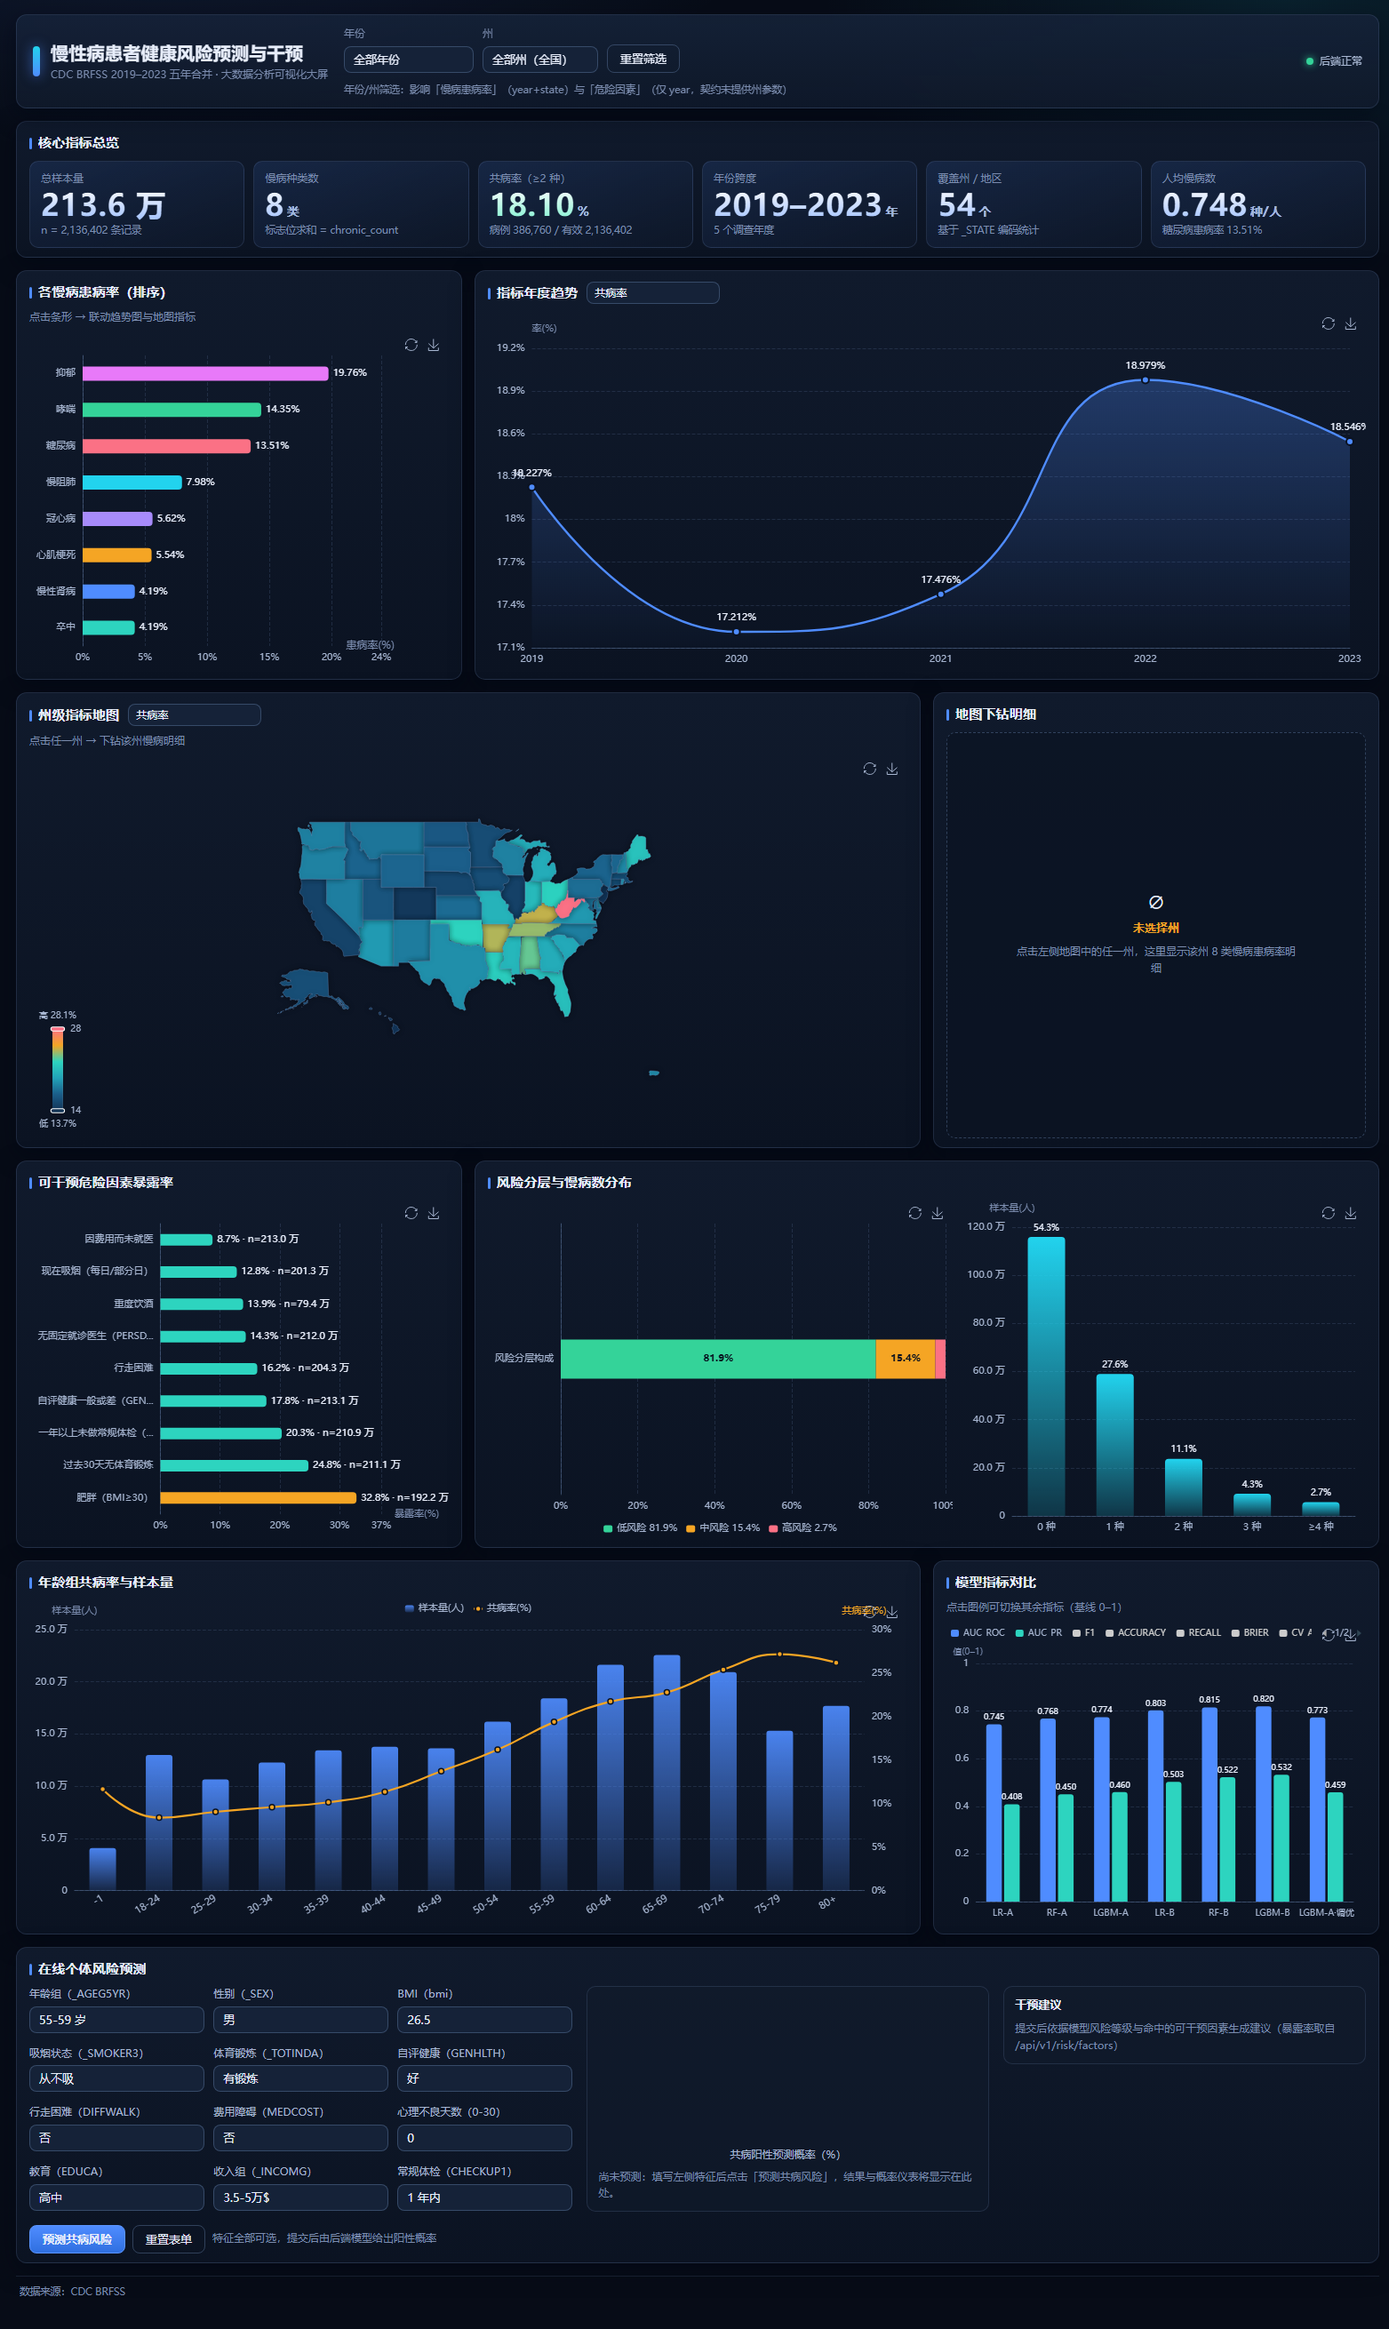
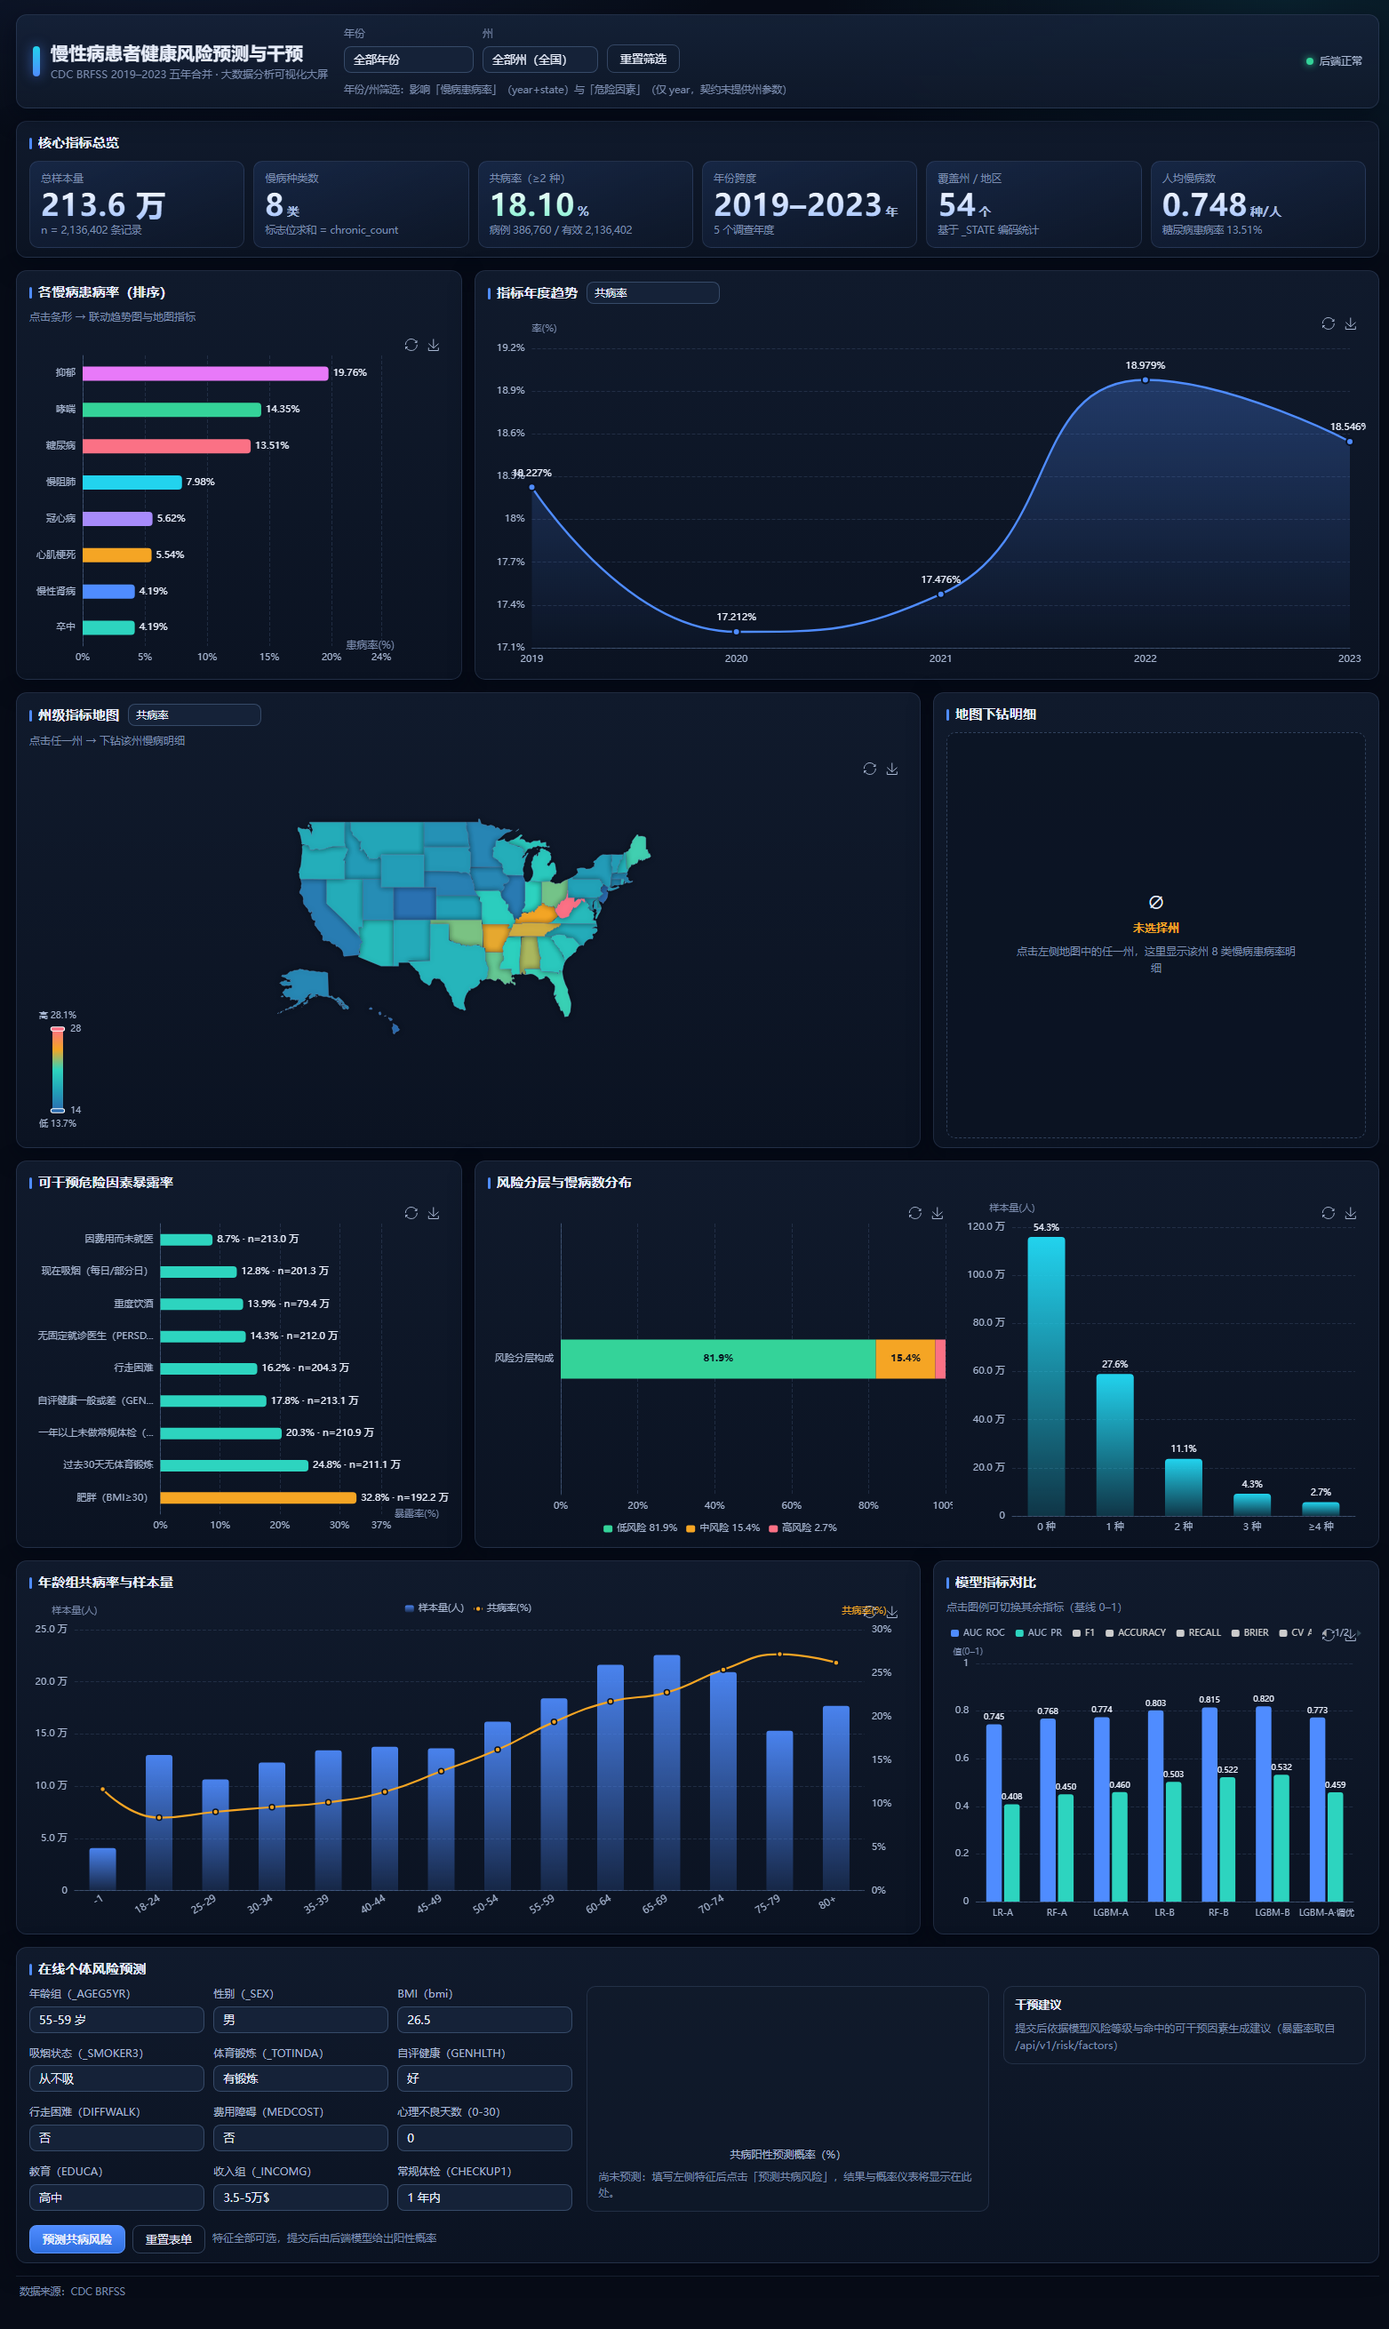
style(web): 统一图表调色板与网格线，修正地图冷端并隐藏波多黎各方块
- 8 个 ECharts 实例改注册主题 brfss-dark，色板换成设计令牌（去 ECharts 出厂默认色）
- 网格线统一为类目轴不画线（仅保留 rgba(120,152,200,0.18)），消除 #E0E6F1 / rgba 两制
- 地图梯度改深蓝->青->青绿->琥珀->玫红，冷端与面板底色可辨；无数据色 #16233a -> #3a4a63
- 剔除 FIPS 72（波多黎各）：数据层不含该州 + 绘制层置透明，悬停不再弹提示

Changed region(s): [[0.1843, 0.3399, 0.4607, 0.4327], [0.0307, 0.4327, 0.0614, 0.4945]]

diff --git a/web/js/charts.js b/web/js/charts.js
@@ -9,9 +9,22 @@
   var P = D.PALETTE;
   var instances = {};   /* id -> { chart, container } */
 
+  /* 图表调色板：全部取自 CSS 令牌（与 :root 的 --c-* 同源），
+     替换 ECharts 出厂浅色默认色板 #5470c6 系列，8 个实例统一生效。 */
+  var CHART_COLORS = [P.primary, P.teal, P.amber, P.violet, P.rose, P.cyan, P.green, P.fuchsia];
+  var THEME_NAME = 'brfss-dark';
+  var THEME = null;
+  if (window.echarts && typeof window.echarts.registerTheme === 'function') {
+    window.echarts.registerTheme(THEME_NAME, { color: CHART_COLORS });
+    THEME = THEME_NAME;
+  }
+
   var AXIS_LABEL = { color: P.text2, fontSize: 11 };
   var AXIS_LINE = { lineStyle: { color: P.lineStrong } };
   var SPLIT_LINE = { lineStyle: { color: P.line, type: 'dashed' } };
+  /* 不显示网格的轴也显式带上同一网格色：ECharts 出厂默认 splitLine 是浅色 #E0E6F1，
+     否则 getOption 中一页并存两套网格色（隐藏轴上不可见，但配置仍是浅色）。 */
+  var SPLIT_LINE_OFF = { show: false, lineStyle: { color: P.line, type: 'dashed' } };
   var TOOLTIP = {
     backgroundColor: 'rgba(10,18,32,0.96)',
     borderColor: P.lineStrong,
@@ -58,8 +71,10 @@
     var hit = instances[id];
     if (hit && hit.container === container) return hit.chart;
     if (hit) { hit.chart.dispose(); delete instances[id]; }
-    var chart = window.echarts.init(container, null, { renderer: 'canvas' });
+    var chart = window.echarts.init(container, THEME, { renderer: 'canvas' });
     instances[id] = { chart: chart, container: container };
+    /* 地图：排除区域（波多黎各 '72'）在绘制层置为不可见，见 hideExcludedRegions() */
+    if (id === 'chart-geo') bindExcludedRegionHide(chart);
     if (window.ResizeObserver) {
       var ro = new ResizeObserver(function () { chart.resize(); });
       ro.observe(container);
@@ -103,6 +118,7 @@
   function hbar(rows, opts) {
     /* rows: [{ name, value(展示值), color, tooltip }]，已按需要的顺序排好（自内向外） */
     return {
+      color: CHART_COLORS,
       animationDuration: 420,
       grid: { left: 8, right: 76, top: opts.top || 26, bottom: 8, containLabel: true },
       toolbox: toolbox(opts.id),
@@ -120,6 +136,7 @@
         data: rows.map(function (r) { return r.name; }),
         axisLabel: Object.assign({ width: opts.labelWidth || 108, overflow: 'truncate' }, AXIS_LABEL),
         axisLine: AXIS_LINE,
+        splitLine: SPLIT_LINE_OFF,
         axisTick: { show: false }
       },
       series: [{
@@ -193,6 +210,7 @@
     var values = series.map(function (s) { return isRatio ? Number((s.value * 100).toFixed(3)) : Number(s.value); });
     var unitText = isRatio ? '率(%)' : (payload.metric === 'chronic_avg' ? '种/人' : '样本量(人)');
     var opt = {
+      color: CHART_COLORS,
       animationDuration: 420,
       grid: { left: 10, right: 18, top: 42, bottom: 6, containLabel: true },
       toolbox: toolbox('chart-trend'),
@@ -217,6 +235,7 @@
         boundaryGap: false,
         axisLabel: AXIS_LABEL,
         axisLine: AXIS_LINE,
+        splitLine: SPLIT_LINE_OFF,
         axisTick: { show: false }
       },
       yAxis: {
@@ -313,6 +332,7 @@
       };
     });
     var opt = {
+      color: CHART_COLORS,
       animationDuration: 420,
       grid: { left: 8, right: 8, top: 26, bottom: 30, containLabel: true },
       toolbox: toolbox('chart-stratify-level'),
@@ -338,7 +358,7 @@
         type: 'value', max: 100, axisLabel: Object.assign({ formatter: '{value}%' }, AXIS_LABEL),
         splitLine: SPLIT_LINE, axisLine: { show: false }
       },
-      yAxis: { type: 'category', data: ['风险分层构成'], axisLabel: AXIS_LABEL, axisLine: AXIS_LINE, axisTick: { show: false } },
+      yAxis: { type: 'category', data: ['风险分层构成'], axisLabel: AXIS_LABEL, axisLine: AXIS_LINE, splitLine: SPLIT_LINE_OFF, axisTick: { show: false } },
       series: series
     };
     opt.linkEntries = levels.map(function (lv, si) {
@@ -351,6 +371,7 @@
   function chronicDistOption(payload) {
     var dist = payload.distribution || [];
     var opt = {
+      color: CHART_COLORS,
       animationDuration: 420,
       grid: { left: 8, right: 12, top: 30, bottom: 6, containLabel: true },
       toolbox: toolbox('chart-chronic-dist'),
@@ -367,7 +388,7 @@
       xAxis: {
         type: 'category',
         data: dist.map(function (d) { return d.label; }),
-        axisLabel: AXIS_LABEL, axisLine: AXIS_LINE, axisTick: { show: false }
+        axisLabel: AXIS_LABEL, axisLine: AXIS_LINE, splitLine: SPLIT_LINE_OFF, axisTick: { show: false }
       },
       yAxis: {
         type: 'value', name: '样本量(人)', nameTextStyle: { color: P.dim, fontSize: 11 },
@@ -397,11 +418,23 @@
   }
 
   /* ---------------------------------------------------- 4. 州级地图 */
+  /* 地图 series 额外剔除的 FIPS：'72' 波多黎各在 us-states.geojson 里是本土框外的一块孤立方块
+     （AK/HI 是 inset 画在大陆框内），易被误读为本土州。只剔除地图 series 数据，
+     不动 vendor/geojson 源文件、不动接口返回、不影响任何其它面板口径。 */
+  var MAP_EXCLUDE_FIPS = ['72'];
+  /* 连续色带：冷端不再用 #123456（与面板底色 #152238 几乎同色，低值州会成"黑洞"），
+     改为与底色可辨的深蓝起，仍保持"冷=低、暖=高"的原语义与档数级差。 */
+  var GEO_RAMP = ['#2b6cb0', '#22a3b8', '#2dd4bf', '#f5a524', '#fb7185'];
+  /* 无数据州：中灰，与底色可辨，且不与色带任意一档重合 */
+  var GEO_NO_DATA = '#3a4a63';
   function geoOption(payload, metricKey, selectedFips) {
     var isRatio = payload.unit === 'ratio';
     var items = payload.items || [];
     var data = items
-      .filter(function (it) { return D.NO_GEOMETRY.indexOf(D.padFips(it.stateFips)) < 0; })
+      .filter(function (it) {
+        var fips = D.padFips(it.stateFips);
+        return D.NO_GEOMETRY.indexOf(fips) < 0 && MAP_EXCLUDE_FIPS.indexOf(fips) < 0;
+      })
       .map(function (it) {
         return {
           name: D.padFips(it.stateFips),
@@ -413,11 +446,14 @@
     var min = values.length ? Math.min.apply(null, values) : 0;
     var max = values.length ? Math.max.apply(null, values) : 1;
     var opt = {
+      color: CHART_COLORS,
       animationDuration: 520,
       toolbox: toolbox('chart-geo'),
       tooltip: Object.assign({
         trigger: 'item',
         formatter: function (p) {
+          /* 排除区域（波多黎各）保留了绘制元素与命中（避免提示/下钻穿透到相邻州），此处不给任何提示 */
+          if (p && p.name != null && MAP_EXCLUDE_FIPS.indexOf(String(p.name)) >= 0) return '';
           var raw = p.data && p.data.raw;
           if (!raw) return '<b>' + D.stateFull(p.name) + '</b><br/>无数据（该州未返回）';
           return '<b>' + D.stateFull(raw.stateFips) + '</b><br/>' +
@@ -437,7 +473,7 @@
         calculable: true,
         text: [isRatio ? '高 ' + max.toFixed(1) + '%' : '高 ' + D.compact(max), isRatio ? '低 ' + min.toFixed(1) + '%' : '低 ' + D.compact(min)],
         textStyle: { color: P.text2, fontSize: 10 },
-        inRange: { color: ['#123456', '#1b5e8a', '#22a3b8', '#2dd4bf', '#f5a524', '#fb7185'] }
+        inRange: { color: GEO_RAMP }
       },
       series: [{
         name: payload.label,
@@ -450,7 +486,7 @@
         layoutSize: '96%',
         label: { show: false, formatter: function (p) { return D.stateShort(p.name); } },
         itemStyle: {
-          areaColor: '#16233a',
+          areaColor: GEO_NO_DATA,
           borderColor: 'rgba(120,152,200,0.45)',
           borderWidth: 0.7,
           shadowColor: 'rgba(0,0,0,0.45)',
@@ -464,6 +500,21 @@
           label: { show: true, color: '#fff', fontSize: 11, formatter: function (p) { return D.stateShort(p.name); } },
           itemStyle: { areaColor: P.amber, borderColor: '#fff', borderWidth: 1.2 }
         },
+        /* 排除区域（波多黎各）覆盖声明。注意：ECharts 5 的 map series 区域样式取自数据项模型，
+           regions 只被 geo 组件消费，这里的覆盖对 map series 是空操作（实测像素与 tooltip 均无变化）。
+           真正的"渲染层不可见"由 hideExcludedRegions() 在每次重绘后完成，此声明保留用于表达意图。 */
+        regions: MAP_EXCLUDE_FIPS.map(function (fips) {
+          return {
+            name: fips,
+            silent: true,
+            itemStyle: { areaColor: 'transparent', borderColor: 'transparent', borderWidth: 0 },
+            label: { show: false },
+            emphasis: {
+              label: { show: false },
+              itemStyle: { areaColor: 'transparent', borderColor: 'transparent', borderWidth: 0 }
+            }
+          };
+        }),
         data: data
       }]
     };
@@ -480,6 +531,68 @@
       };
     });
     return opt;
+  }
+
+  /* ---- 排除区域（波多黎各 FIPS '72'）的渲染层剔除 ----
+     ECharts 5 的 map series 会把地图中未出现在 series.data 的区域补成空数据项继续绘制，
+     这些区域的样式来自数据项模型，series.regions 对其不生效（见上面 regions 处的说明）。
+     这里在每次重绘后把该区域的绘制元素改成"全透明 + 无状态样式"：
+       · 透明填充/描边、无阴影 ⇒ 视觉上完全不可见（不依赖底色，也不会变成另一种可见色块）；
+       · 保留命中（不置 ignore/silent）⇒ 鼠标落在原方块位置命中的是它自己，不会穿透到相邻州
+         （实测置 silent 后该点会落到佛州 bbox 上，弹出佛州提示），点击下钻也仍指向该州；
+       · 清空 states ⇒ 悬停不换色、不弹 label；
+       · 悬停提示由 geoOption 的 tooltip.formatter 对该州返回空串。
+     区域元素由 MapDraw 在每次重绘时重建（resize / restore / setOption 都会触发），
+     所以挂在 'rendered' 事件上反复执行；元素上的 ECData（ECharts 内部数据索引）用于定位区域。 */
+  var EC_DATA_KEY = null;
+  function ecData(el) {
+    if (!EC_DATA_KEY) {
+      var keys = Object.keys(el);
+      for (var k = 0; k < keys.length; k++) {
+        if (keys[k].indexOf('__ec_inner_') === 0) { EC_DATA_KEY = keys[k]; break; }
+      }
+    }
+    return EC_DATA_KEY ? el[EC_DATA_KEY] : null;
+  }
+
+  function hideExcludedRegions(chart) {
+    var model = chart.getModel && chart.getModel();
+    var series = model && model.getSeriesByIndex(0);
+    var data = series && series.getData && series.getData();
+    if (!data || !data.count || !data.count()) return;
+    var indexes = MAP_EXCLUDE_FIPS
+      .map(function (fips) { return data.indexOfName(fips); })
+      .filter(function (idx) { return idx >= 0; });
+    if (!indexes.length) return;
+    var list = chart.getZr().storage.getDisplayList();
+    var changed = false;
+    for (var i = 0; i < list.length; i++) {
+      var el = list[i];
+      var ec = ecData(el);
+      if (!ec || ec.seriesIndex !== 0 || indexes.indexOf(ec.dataIndex) < 0) continue;
+      var style = el.style;
+      if (style && style.fill !== 'transparent') {
+        style.fill = 'transparent';
+        style.stroke = 'transparent';
+        style.lineWidth = 0;
+        style.shadowBlur = 0;
+        style.shadowColor = 'transparent';
+        changed = true;
+      }
+      el.silent = false;   /* 保留命中：挡在相邻州前面，提示与下钻都不会落到别的州 */
+      el.states = {};      /* 悬停/选中态失效：不换色、不弹 label */
+      if (el.dirtyStyle) el.dirtyStyle();
+    }
+    /* 本帧已经画上去的像素需要再刷新一次才会消失；下一次 'rendered' 时 changed 为 false，不会递归 */
+    if (changed) chart.getZr().refresh();
+  }
+
+  function bindExcludedRegionHide(chart) {
+    if (!chart || chart.__excludedRegionBound) return;
+    chart.__excludedRegionBound = true;
+    chart.on('rendered', function () {
+      try { hideExcludedRegions(chart); } catch (e) { /* 内部结构变化时不阻断主流程 */ }
+    });
   }
 
   /* ---------------------------------------------------- 7. 模型指标对比 */
@@ -561,6 +674,7 @@
     });
 
     var opt = {
+      color: CHART_COLORS,
       animationDuration: 420,
       /* top 由 34 → 46：图例固定单行（scroll），并给 y 轴名称留出空隙 */
       grid: { left: 10, right: 14, top: 46, bottom: 8, containLabel: true },
@@ -599,6 +713,7 @@
           formatter: shortModelName
         }),
         axisLine: AXIS_LINE,
+        splitLine: SPLIT_LINE_OFF,
         axisTick: { show: false }
       },
       yAxis: {
@@ -628,6 +743,7 @@
   function ageOption(payload) {
     var rows = (payload.byAge || []).slice().sort(function (a, b) { return a.ageGrp - b.ageGrp; });
     var opt = {
+      color: CHART_COLORS,
       animationDuration: 420,
       grid: { left: 8, right: 18, top: 34, bottom: 6, containLabel: true },
       toolbox: toolbox('chart-age'),
@@ -647,6 +763,7 @@
         data: rows.map(function (r) { return r.ageLabel; }),
         axisLabel: Object.assign({ rotate: rows.length > 10 ? 32 : 0, hideOverlap: true }, AXIS_LABEL),
         axisLine: AXIS_LINE,
+        splitLine: SPLIT_LINE_OFF,
         axisTick: { show: false }
       },
       yAxis: [
@@ -658,7 +775,7 @@
         {
           type: 'value', name: '共病率(%)', nameTextStyle: { color: P.amber, fontSize: 11 },
           axisLabel: Object.assign({ formatter: '{value}%' }, AXIS_LABEL),
-          splitLine: { show: false }, axisLine: { show: false }
+          splitLine: SPLIT_LINE_OFF, axisLine: { show: false }
         }
       ],
       series: [
